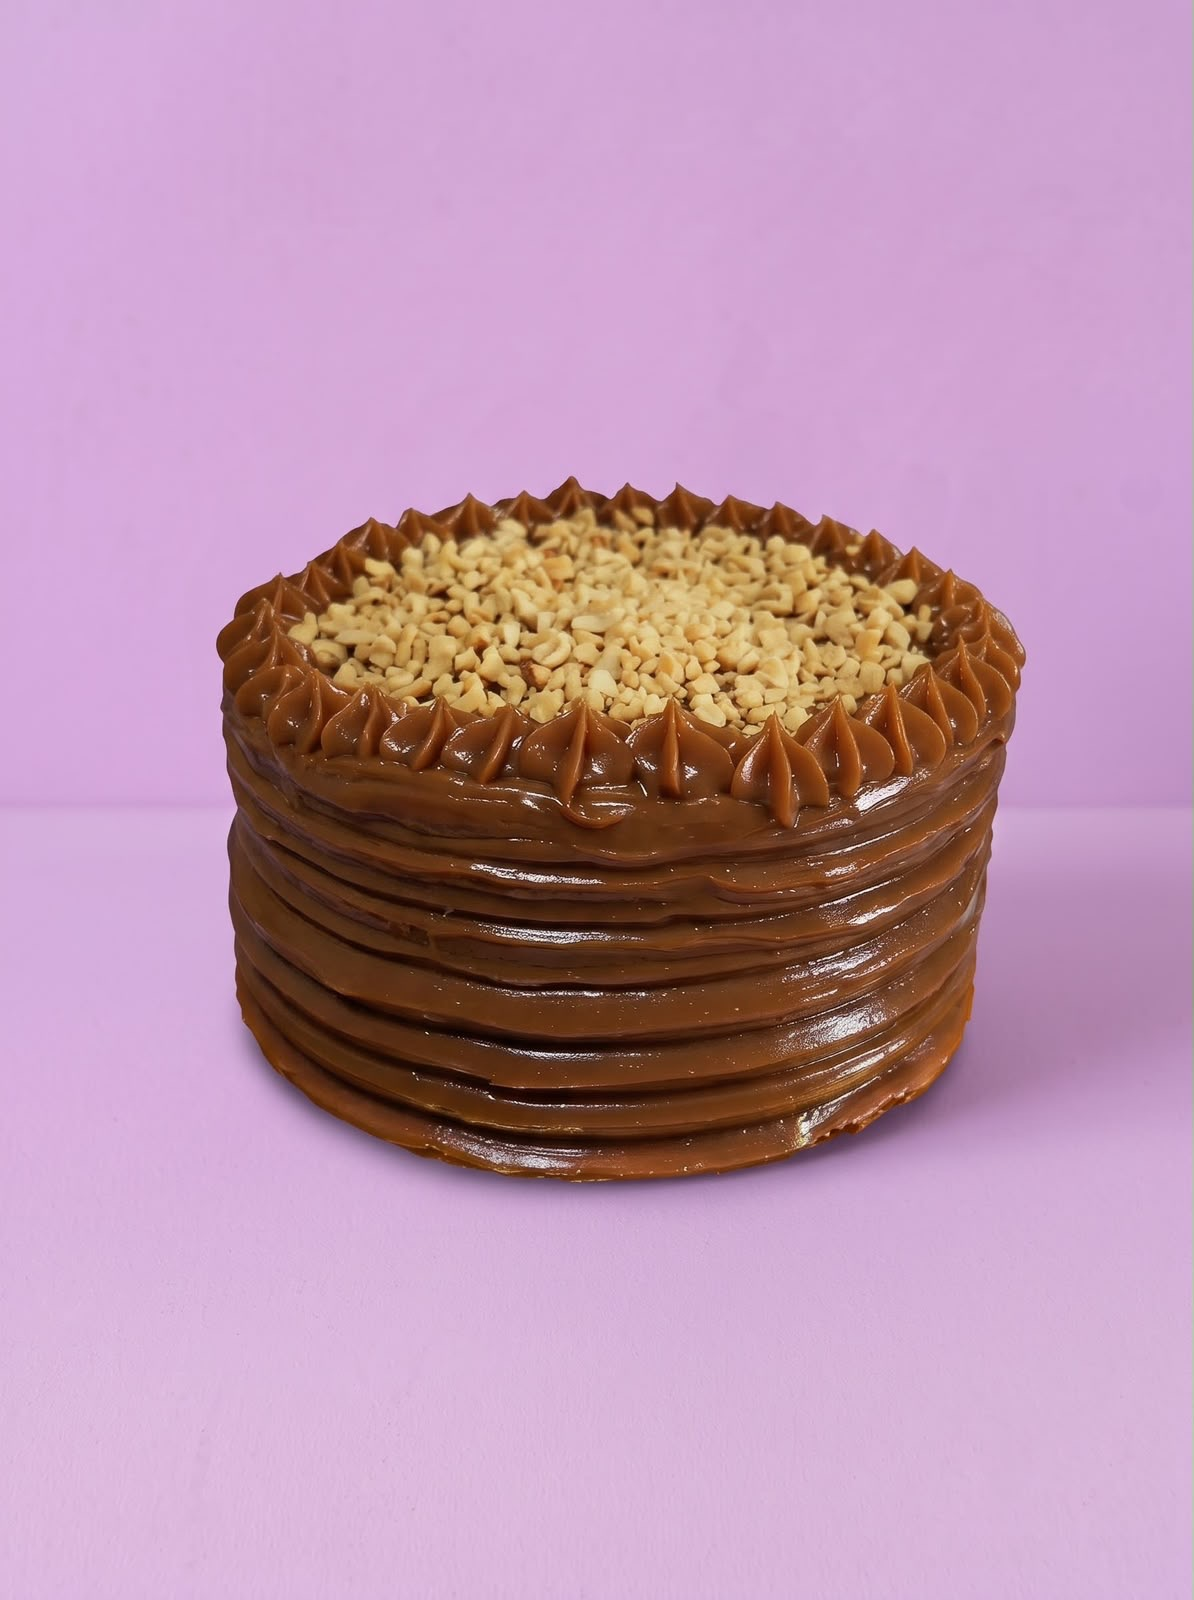
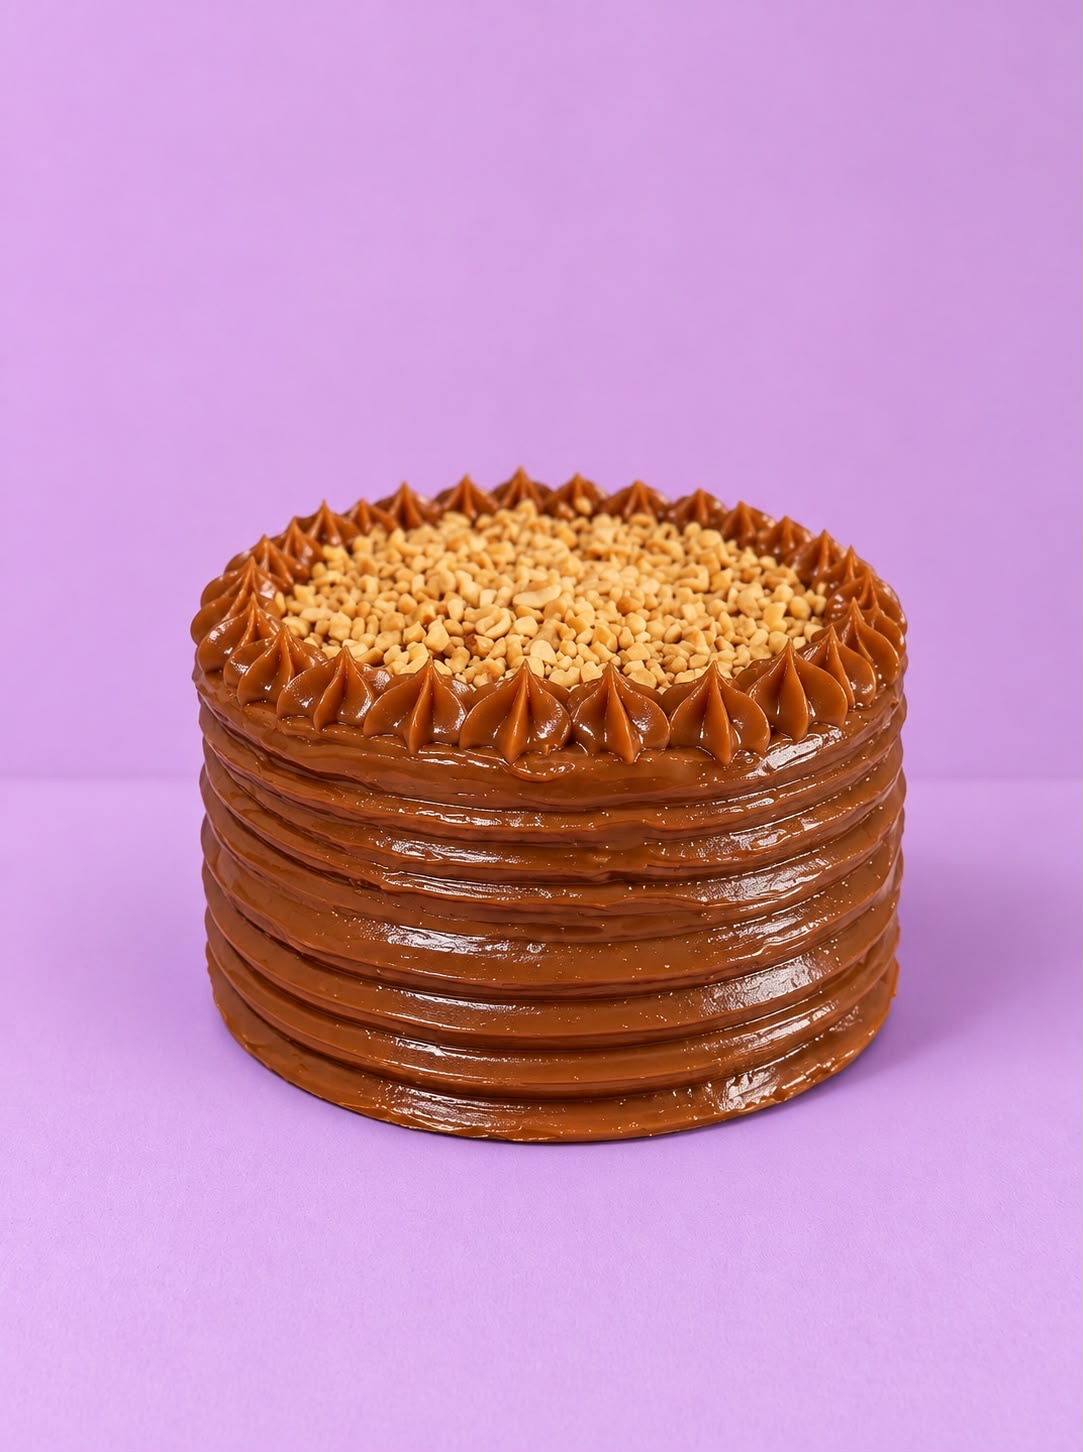
Tortas: solo mini torta de 10 cm (por encargo) y porción
- Choco Moon: 10 cm $50.000, porción $18.000
- Caramel Crunch: 10 cm $45.000, porción $17.000
- Berry Love: 10 cm $45.000 con relleno a elegir (fresas con crema, Oreo
  o dulce de leche); porción $17.000 con relleno de Oreo
- Se quitan Strawberry Kiss y los tamaños de 1 Lb y ½ Lb
- Solo la mini torta de 10 cm es por encargo (2 días); la porción no
- `eleccion.soloTamanos`: el relleno de Berry Love solo se elige en 10 cm
- Fotos nuevas de Choco Moon, Caramel Crunch y Berry Love (con galería)

Claude-Session: https://claude.ai/code/session_01GHyyVr5iuHvK63zJVmzS7n

diff --git a/assets/js/menu.js b/assets/js/menu.js
@@ -16,6 +16,8 @@
                (ej. el relleno de una torta): la tarjeta lista cada opción con su precio.
                Con varios tamaños, `precios: { idTamaño: precio }` da el precio de la opción
                en cada tamaño (ej. Berry Love: 1 Lb, ½ Lb y 10 cm).
+   - eleccion.soloTamanos: ["idTamaño"] → la opción solo se elige en esos tamaños
+     (ej. el relleno de Berry Love, solo en la mini torta de 10 cm).
    - categoria: "tortas" → el producto sale en esa sección de la página (sin categoría, en el menú).
    - aviso: texto que se muestra en el detalle (ej. cómo enviar las fotos de la torta).
    - galeria (producto, tamaño u opción, junto a `imagen`): [{ imagen, posicion? }] → fotos extra;
@@ -115,74 +117,61 @@ window.HM_ADICIONES = {
       posicion: "center 80%"
     },
 
-    /* ===== Tortas de 1 Lb (sección "Tortas") =====
-       Precio según el relleno: chocolate $130.000 · fresas con crema $120.000 · Oreo $110.000 ·
-       dulce de leche $105.000 (sin relleno, $90.000: no se ofrece en la página).
-       ½ Lb: fresas con crema $80.000 · dulce de leche u Oreo $75.000.
-       10 cm: fresas con crema $45.000 · dulce de leche u Oreo $40.000.
-       Chocolate (Choco Moon): ½ Lb $90.000 · 10 cm $50.000. */
+    /* ===== Tortas (sección "Tortas") =====
+       Solo pequeñas y por porción. La mini torta de 10 cm es por encargo (diasEncargo, hoy 2 días);
+       la porción no. */
     {
       id: "torta-choco-moon",
       categoria: "tortas",
       nombre: "Choco Moon",
       nombreCompleto: "Torta Choco Moon",
-      descripcion: "🍫 Para los verdaderos amantes del chocolate. Esponjoso bizcocho de chocolate, con un delicioso relleno de ganache de chocolate y una irresistible cobertura de chocolate que hace de cada bocado una experiencia llena de sabor. 🤎✨",
+      descripcion: "🍫 Torta de chocolate con relleno de ganache de chocolate y cobertura de chocolate. ¡Para los verdaderos amantes del chocolate! 🤎✨",
       tamanos: [
-        { id: "1lb", nombre: "1 Lb", precio: 130000 },
-        { id: "media", nombre: "½ Lb", precio: 90000 },
-        { id: "10cm", nombre: "10 cm", precio: 50000 }
+        { id: "10cm", nombre: "Mini torta 10 cm", detalle: "2 a 4 porciones", precio: 50000, encargo: true },
+        { id: "porcion", nombre: "Porción", precio: 18000 }
       ],
       imagen: "assets/img/torta-choco-moon.webp",
-      posicion: "center 70%"
-    },
-    {
-      id: "torta-strawberry-kiss",
-      categoria: "tortas",
-      nombre: "Strawberry Kiss",
-      nombreCompleto: "Torta Strawberry Kiss",
-      descripcion: "🍓 Una combinación irresistible en cada porción. Suave bizcocho de vainilla con un delicioso relleno de dulce de leche, cubierto con cremosa buttercream, fresas frescas y un toque de Oreo triturada. ¡El equilibrio perfecto entre dulzura y textura! 🤍✨",
-      tamanos: [
-        { id: "1lb", nombre: "1 Lb", precio: 105000 },
-        { id: "media", nombre: "½ Lb", precio: 75000 },
-        { id: "10cm", nombre: "10 cm", precio: 40000 }
-      ],
-      imagen: "assets/img/torta-strawberry-kiss.webp",
-      posicion: "center 88%"
+      posicion: "center 66%"
     },
     {
       id: "torta-caramel-crunch",
       categoria: "tortas",
       nombre: "Caramel Crunch",
       nombreCompleto: "Torta Caramel Crunch",
-      descripcion: "🤎 Un delicioso bizcocho de vainilla, relleno y cubierto con una suave capa de dulce de leche, coronado con maní crocante que aporta el toque perfecto de textura y sabor. 🤎✨ ¡Una combinación irresistible para los amantes de lo dulce!",
+      descripcion: "🤎 Bizcocho de vainilla con relleno de dulce de leche, cobertura de dulce de leche y coronado con maní. ¡Una combinación irresistible para los amantes de lo dulce! ✨",
       tamanos: [
-        { id: "1lb", nombre: "1 Lb", precio: 105000 },
-        { id: "media", nombre: "½ Lb", precio: 75000 },
-        { id: "10cm", nombre: "10 cm", precio: 40000 }
+        { id: "10cm", nombre: "Mini torta 10 cm", detalle: "2 a 4 porciones", precio: 45000, encargo: true },
+        { id: "porcion", nombre: "Porción", precio: 17000 }
       ],
       imagen: "assets/img/torta-caramel-crunch.webp",
-      posicion: "center 62%"
+      posicion: "center 60%"
     },
     {
       id: "torta-berry-love",
       categoria: "tortas",
       nombre: "Berry Love",
       nombreCompleto: "Torta Berry Love",
-      descripcion: "💜 Delicioso bizcocho de vainilla, relleno de fresas frescas con crema y cubierto con suave buttercream. Decorado con fotografías personalizadas para darle un toque único y especial a tu celebración.✨",
-      tamanos: [{ id: "1lb", nombre: "1 Lb", precio: 120000 }],
+      descripcion: "💜 Bizcocho de vainilla con cobertura de buttercream. En la mini torta de 10 cm eliges el relleno: fresas con crema, Oreo o dulce de leche. La porción va con relleno de Oreo. ✨",
+      tamanos: [
+        { id: "10cm", nombre: "Mini torta 10 cm", detalle: "2 a 4 porciones", precio: 45000, encargo: true },
+        { id: "porcion", nombre: "Porción", detalle: "Relleno de Oreo", precio: 17000 }
+      ],
+      // El relleno solo se elige en la mini torta de 10 cm
       eleccion: {
         titulo: "Relleno",
+        detalle: "Elige uno",
+        soloTamanos: ["10cm"],
         opciones: [
-          { id: "fresas", nombre: "Fresas con crema", precio: 120000 },
-          { id: "dulce", nombre: "Dulce de leche", precio: 110000 },
-          { id: "oreo", nombre: "Oreo", precio: 110000 }
+          { id: "fresas", nombre: "Fresas con crema" },
+          { id: "oreo", nombre: "Oreo" },
+          { id: "dulce", nombre: "Dulce de leche" }
         ]
       },
-      aviso: "Esta torta va decorada con tus fotos: envíanoslas por WhatsApp al confirmar el pedido.",
       notaPlaceholder: "Ej: nombre, motivo de la celebración…",
       imagen: "assets/img/torta-berry-love.webp",
-      fotoNota: "Ejemplo: va con tus fotos",
-      posicion: "center 56%"
+      fotoNota: "Foto: relleno de fresas con crema",
+      posicion: "center 60%",
+      galeria: [{ imagen: "assets/img/torta-berry-love-corte.webp", posicion: "center 50%" }]
     }
   ];
 })();

diff --git a/assets/js/app.js b/assets/js/app.js
@@ -108,6 +108,9 @@
 
   // Opción elegida de un producto con "eleccion" (ej. el topping del paveé); la primera por defecto
   const getOpcion = (p, id) => (p.eleccion ? p.eleccion.opciones.find((o) => o.id === id) || p.eleccion.opciones[0] : null);
+  // ¿Se elige la opción en ese tamaño? (eleccion.soloTamanos, ej. el relleno de Berry Love solo en 10 cm)
+  const aplicaEleccion = (p, tamano) => !!p.eleccion && (!p.eleccion.soloTamanos || p.eleccion.soloTamanos.includes(tamano));
+  const opcionDe = (p, it) => (aplicaEleccion(p, it.tamano) ? getOpcion(p, it.opcion) : null);
   const ilustracionDe = (p, opcion) => {
     const o = getOpcion(p, opcion);
     return (o && o.ilustracion) || p.ilustracion || {};
@@ -245,7 +248,7 @@
     return {
       id: p.id,
       tamano: it.tamano,
-      opcion: p.eleccion ? getOpcion(p, it.opcion).id : "",
+      opcion: aplicaEleccion(p, it.tamano) ? getOpcion(p, it.opcion).id : "",
       adiciones: adicionesValidas(p, it.adiciones),
       nota: typeof it.nota === "string" ? it.nota.slice(0, 140) : "",
       cantidad
@@ -268,7 +271,7 @@
   function precioUnitario(it) {
     const p = getProducto(it.id);
     const t = getTamano(p, it.tamano);
-    return precioBase(t, getOpcion(p, it.opcion)) + it.adiciones.reduce((s, id) => s + ((getAdicion(id) || {}).precio || 0), 0);
+    return precioBase(t, opcionDe(p, it)) + it.adiciones.reduce((s, id) => s + ((getAdicion(id) || {}).precio || 0), 0);
   }
 
   const subtotal = () => carrito.reduce((s, it) => s + precioUnitario(it) * it.cantidad, 0);
@@ -303,7 +306,7 @@
     const p = getProducto(it.id);
     const t = getTamano(p, it.tamano);
     const adic = nombresToppings(p, it.adiciones);
-    const o = getOpcion(p, it.opcion);
+    const o = opcionDe(p, it);
     return {
       p, tamano: p.tamanos.length > 1 ? nombreTamano(t) : "", adic, nota: it.nota.trim(), encargo: esEncargo(p, t),
       opcion: o ? `${p.eleccion.titulo}: ${o.nombre}` : ""
@@ -438,7 +441,7 @@
     const grupo = grupoDe(p);
     const encargo = !ok && p.temporada ? p.temporada.texto
       : p.encargo ? textoEncargo()
-      : p.tamanos.some((t) => t.encargo) ? `${p.tamanos.filter((t) => t.encargo).map((t) => t.nombre).join(", ")} por encargo` : "";
+      : p.tamanos.some((t) => t.encargo) ? `${p.tamanos.filter((t) => t.encargo).map((t) => t.nombre).join(", ")} por encargo · ${CFG.diasEncargo} días antes` : "";
     const conPrecio = opcionesConPrecio(p);
     const detalle = `${varios || conPrecio ? "desde " : ""}${money(precioDesde(p))}${encargo ? ", " + encargo : ""}`;
     // Precios: una fila por tamaño; si el precio depende de la opción (relleno), una fila por opción
@@ -449,7 +452,7 @@
       ? p.tamanos.flatMap((t) => p.eleccion.opciones.map((o) => `<li><span>${esc(t.nombre)} <small>${esc(p.eleccion.titulo)}: ${esc(o.nombre)}</small></span><strong>${money(precioBase(t, o))}</strong></li>`))
       : p.tamanos.map((t) => `<li><span>${esc(t.nombre)}${t.detalle ? ` <small>${esc(t.detalle)}</small>` : ""}</span><strong>${money(t.precio)}</strong></li>`);
     const extra = conPrecio ? "" : p.eleccion
-      ? `<p class="hm-card-extra"><strong>${esc(p.eleccion.titulo)} incluido:</strong> ${esc(listaY(p.eleccion.opciones.map((o) => o.nombre), "o"))}</p>`
+      ? `<p class="hm-card-extra"><strong>${esc(p.eleccion.titulo)} ${p.eleccion.soloTamanos ? `a elegir (${esc(p.tamanos.filter((t) => p.eleccion.soloTamanos.includes(t.id)).map((t) => t.nombre).join(", "))})` : "incluido"}:</strong> ${esc(listaY(p.eleccion.opciones.map((o) => o.nombre), "o"))}</p>`
       : grupo
         ? `<div class="hm-card-toppings">
             <p class="hm-card-extra mb-2"><strong>Toppings ${esc(precioToppings(grupo))}</strong></p>
@@ -538,6 +541,7 @@
               : `<label class="hm-option justify-content-center text-center h-100" for="o-${o.id}">${esc(o.nombre)}</label>`}
           </div>`).join("")}
       </div>` : "";
+    pintarEleccion();
 
     // "Así va tu vaso": dibujo que se llena con lo que el cliente elige
     const ar = p.armar && window.HM_VASO ? p.armar : null;
@@ -660,7 +664,7 @@
     return {
       id: actual.id,
       tamano: fd.get("tamano"),
-      opcion: fd.get("opcion") || "",
+      opcion: aplicaEleccion(actual, fd.get("tamano")) ? fd.get("opcion") || "" : "",
       adiciones: expandir(grupoDe(actual), conteoToppings),
       nota: ($("#productoNota").value || "").trim(),
       cantidad
@@ -686,7 +690,13 @@
   }
 
   // El precio de cada relleno cambia con el tamaño elegido
+  // La elección (ej. el relleno) se muestra solo en los tamaños donde aplica
+  function pintarEleccion() {
+    $("#productoEleccion").hidden = !aplicaEleccion(actual, new FormData(form).get("tamano"));
+  }
+
   function pintarPreciosOpciones() {
+    if (!actual.eleccion) return;
     const t = getTamano(actual, new FormData(form).get("tamano"));
     $$("[data-precio-opcion]", form).forEach((el) => {
       const o = actual.eleccion.opciones.find((x) => x.id === el.dataset.precioOpcion);
@@ -696,7 +706,7 @@
 
   form.addEventListener("change", (e) => {
     if (e.target.name === "opcion" || e.target.name === "tamano") pintarMedia();
-    if (e.target.name === "tamano") { pintarVaso(); pintarPreciosOpciones(); }
+    if (e.target.name === "tamano") { pintarVaso(); pintarPreciosOpciones(); pintarEleccion(); }
     actualizarTotalProducto();
   });
   form.addEventListener("keydown", (e) => {

diff --git a/index.html b/index.html
@@ -162,7 +162,7 @@
           <div class="text-center mb-2">
             <span class="hm-kicker">para celebrar</span>
             <h2 class="hm-section-title" id="tortasTitle" tabindex="-1">Tortas</h2>
-            <p class="hm-section-sub">Tortas para celebrar con los que más quieres.</p>
+            <p class="hm-section-sub">Mini tortas de 10 cm (por encargo, con 2 días de anticipación) y porciones para darte un gusto.</p>
           </div>
           <div class="row row-cols-1 row-cols-sm-2 row-cols-xl-4 g-4 justify-content-center" data-categoria="tortas"></div>
         </section>

diff --git a/README.md b/README.md
@@ -75,16 +75,18 @@ Las ciudades de domicilio (`zonas`: hoy Barranquilla y Soledad), el horario (hoy
 
 ## Tortas
 
-Sección propia dentro del menú (`#tortas`, con enlace en la navegación y el pie). Muestra los productos con `categoria: "tortas"`: tortas de 1 Lb (no son por encargo: se piden como cualquier producto). Precios según el relleno:
+Sección propia dentro del menú (`#tortas`, con enlace en la navegación y el pie). Muestra los productos con `categoria: "tortas"`. Solo se venden pequeñas y por porción:
 
-- Choco Moon (relleno de chocolate): $130.000.
-- Strawberry Kiss (relleno de dulce de leche): 1 Lb $105.000.
-- Caramel Crunch (relleno de dulce de leche): 1 Lb $105.000.
-- Berry Love (decorada con las fotos del cliente), solo 1 Lb: el cliente elige el relleno, Fresas con crema $120.000, Dulce de leche $110.000 u Oreo $110.000.
-- Tamaños más pequeños, según el relleno: ½ Lb (fresas con crema $80.000, dulce de leche u Oreo $75.000) y 10 cm (fresas con crema $45.000, dulce de leche u Oreo $40.000). Hoy los tienen Strawberry Kiss y Caramel Crunch (dulce de leche): ½ Lb $75.000 y 10 cm $40.000. Choco Moon (chocolate): ½ Lb $90.000 y 10 cm $50.000.
-- Si un relleno cambia de precio según el tamaño, la opción puede llevar `precios: { idTamaño: precio }`. El detalle avisa que las fotos se envían por WhatsApp. En su foto de ejemplo, la tarjeta con la cara y el nombre de la persona va difuminada.
+| Torta | Mini torta 10 cm (2 a 4 porciones) | Porción |
+|---|---|---|
+| Choco Moon (chocolate, ganache y cobertura de chocolate) | $50.000 | $18.000 |
+| Caramel Crunch (vainilla, dulce de leche y maní) | $45.000 | $17.000 |
+| Berry Love (vainilla y buttercream) | $45.000, relleno a elegir: fresas con crema, Oreo o dulce de leche | $17.000, relleno de Oreo |
 
-La torta de 1 Lb sin relleno vale $90.000, pero no se ofrece en la página. Las fotos están en `assets/img/torta-*.webp` (originales en `assets/img/originales/`).
+- La mini torta de 10 cm es por encargo (`encargo: true` en ese tamaño, con `diasEncargo` días de anticipación, hoy 2): si está en el carrito, la fecha del pedido es obligatoria. La porción no.
+- En Berry Love el relleno solo se elige en la mini torta: `eleccion.soloTamanos: ["10cm"]`. En la porción no se muestra la elección y el pedido no lleva relleno elegido (va con Oreo).
+- La foto de Berry Love tiene la nota "Foto: relleno de fresas con crema" y una segunda foto en la galería.
+- Las opciones de `eleccion` también aceptan `precio` o `precios: { idTamaño: precio }` si algún día un relleno cambia el precio.
 
 ## Así va tu vaso
 
